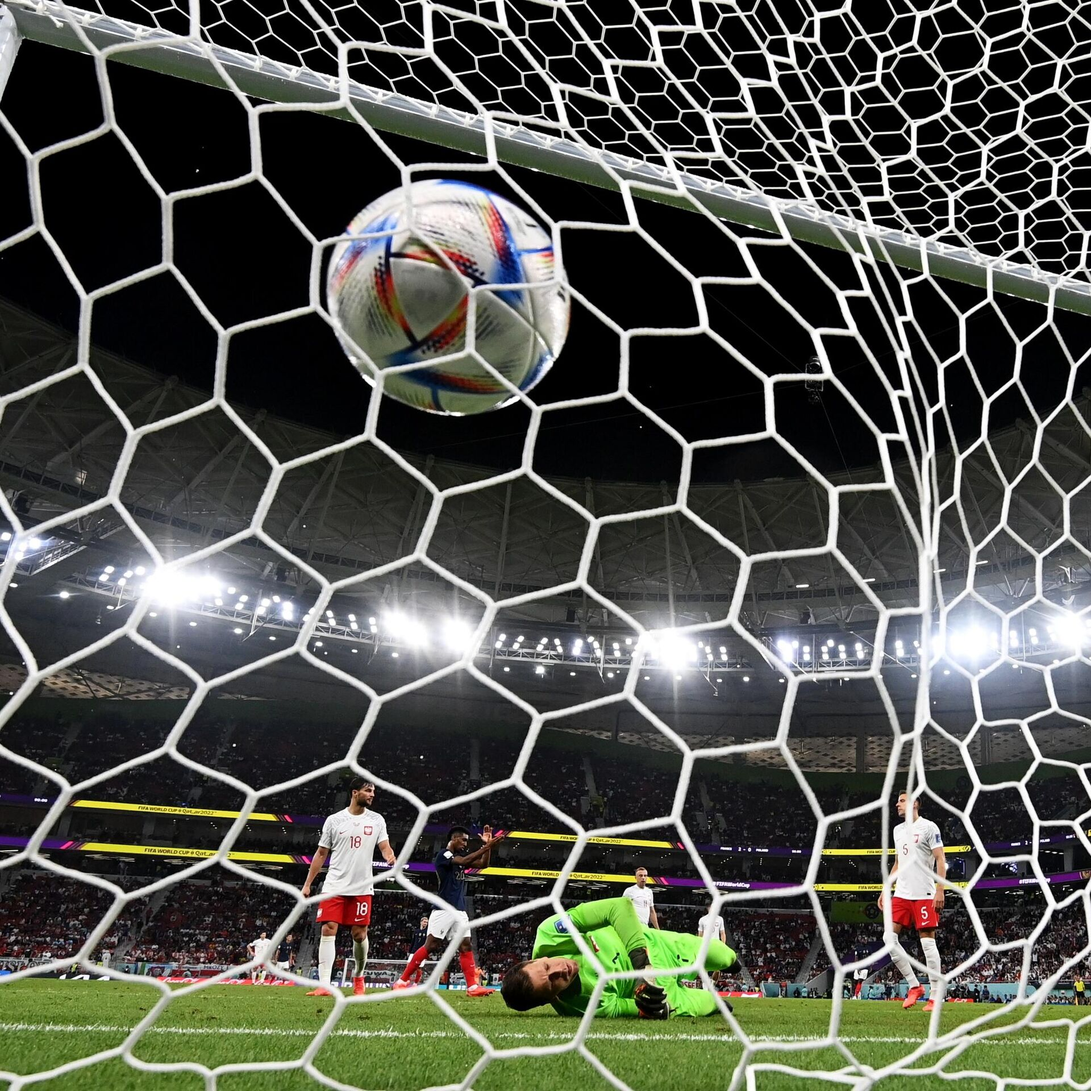
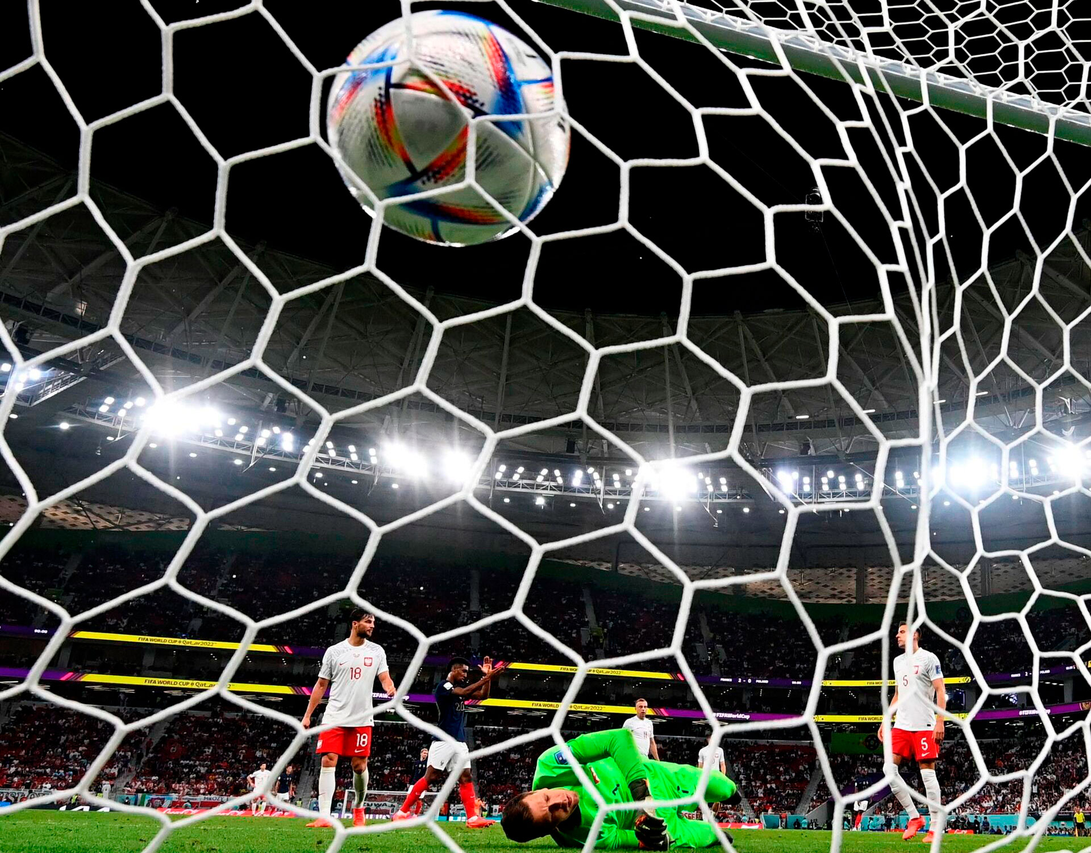
cambio foto pesada

diff --git a/login/login.html b/login/login.html
@@ -12,7 +12,7 @@
     <!--------------------------------------------MAIN------------------------------------------>
     <main class="main__login">
       <section id="section__image">
-        <img src="../img/goal_net.png" alt="goal" />
+        <img src="../img/goal_net.jpg" alt="goal" />
       </section>
       <section id="section__login">
         <a href="../index.html"
